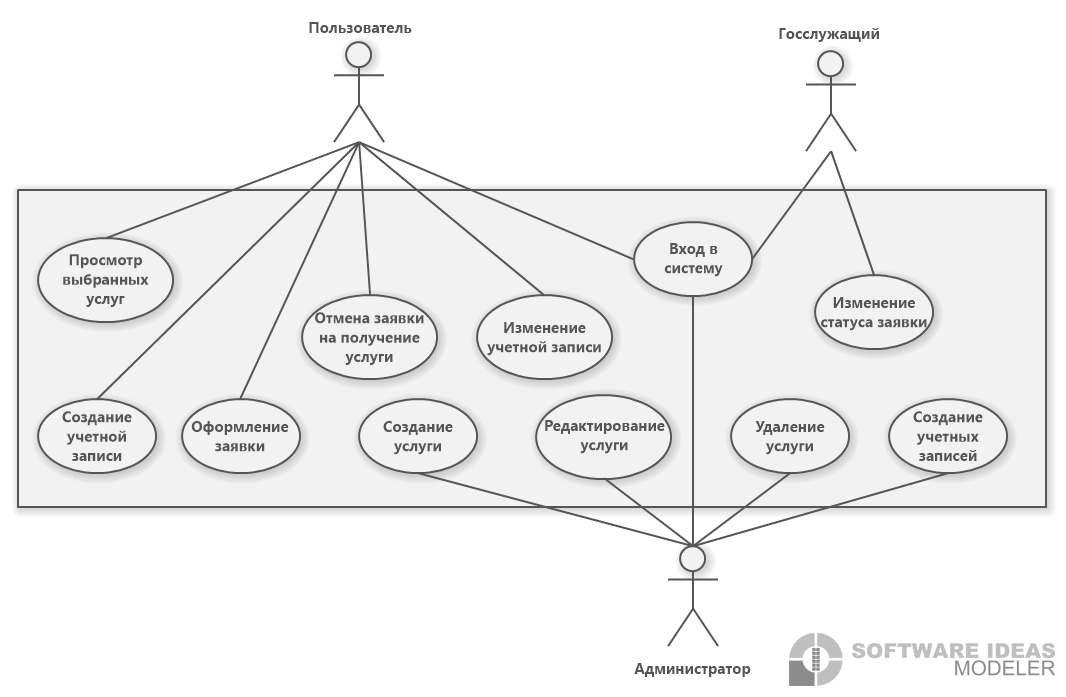
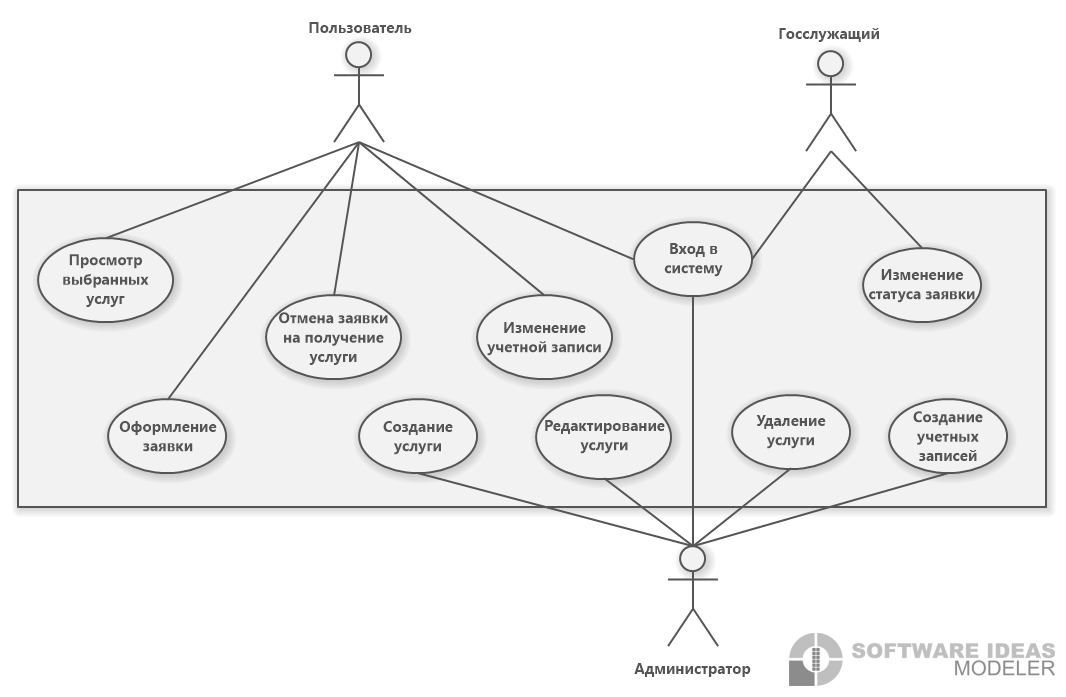
удалили создание учетки пользователем

diff --git a/use case/UseCase 1.md b/use case/UseCase 1.md
@@ -13,7 +13,7 @@
 
 ### **1. Администратор**
 
-**Описание:** Администратор управляет настройками системы, услугами, правилами, а также учетными записями госслужащих и других администраторов.
+**Описание:** Администратор управляет настройками системы, услугами, правилами, а также учетными записями пользователей, госслужащих и других администраторов.
 
 **Прецеденты:**
 
@@ -21,7 +21,7 @@
 - **Создание услуги** – добавление новой услуги с параметрами (название, описание, сроки, правила, результат, статус исполнения, даты(начала услуги и планового оказания услуги), ответственного, инициатора).
 - **Редактирование услуги** – изменение параметров существующей услуги (но не её обновление, а создание новой версии с новыми параметрами и закрытие старой).
 - **Удаление услуги** – снятие услуги с предоставления путем установки даты окончания действия.
-- **Создание учетных записей** – регистрация новых госслужащих и администраторов.
+- **Создание учетных записей** – регистрация новых пользователей, госслужащих и администраторов.
 
 ---
 
@@ -32,7 +32,6 @@
 **Прецеденты:**
 
 - **Вход в систему** – аутентификация в системе для подачи и управления заявками.
-- **Создание учетной записи** - создание учетной записи с внесением личных данных, если ее нет в системе.
 - **Оформление заявки** – создание заявки на получение государственной услуги.
 - **Отмена заявки на получение услуги** – если услуга ещё не оказана, пользователь может отменить заявку.
 - **Изменение учетной записи** – редактирование личных данных (ИНН, паспорт и др.), если это разрешено системой.
